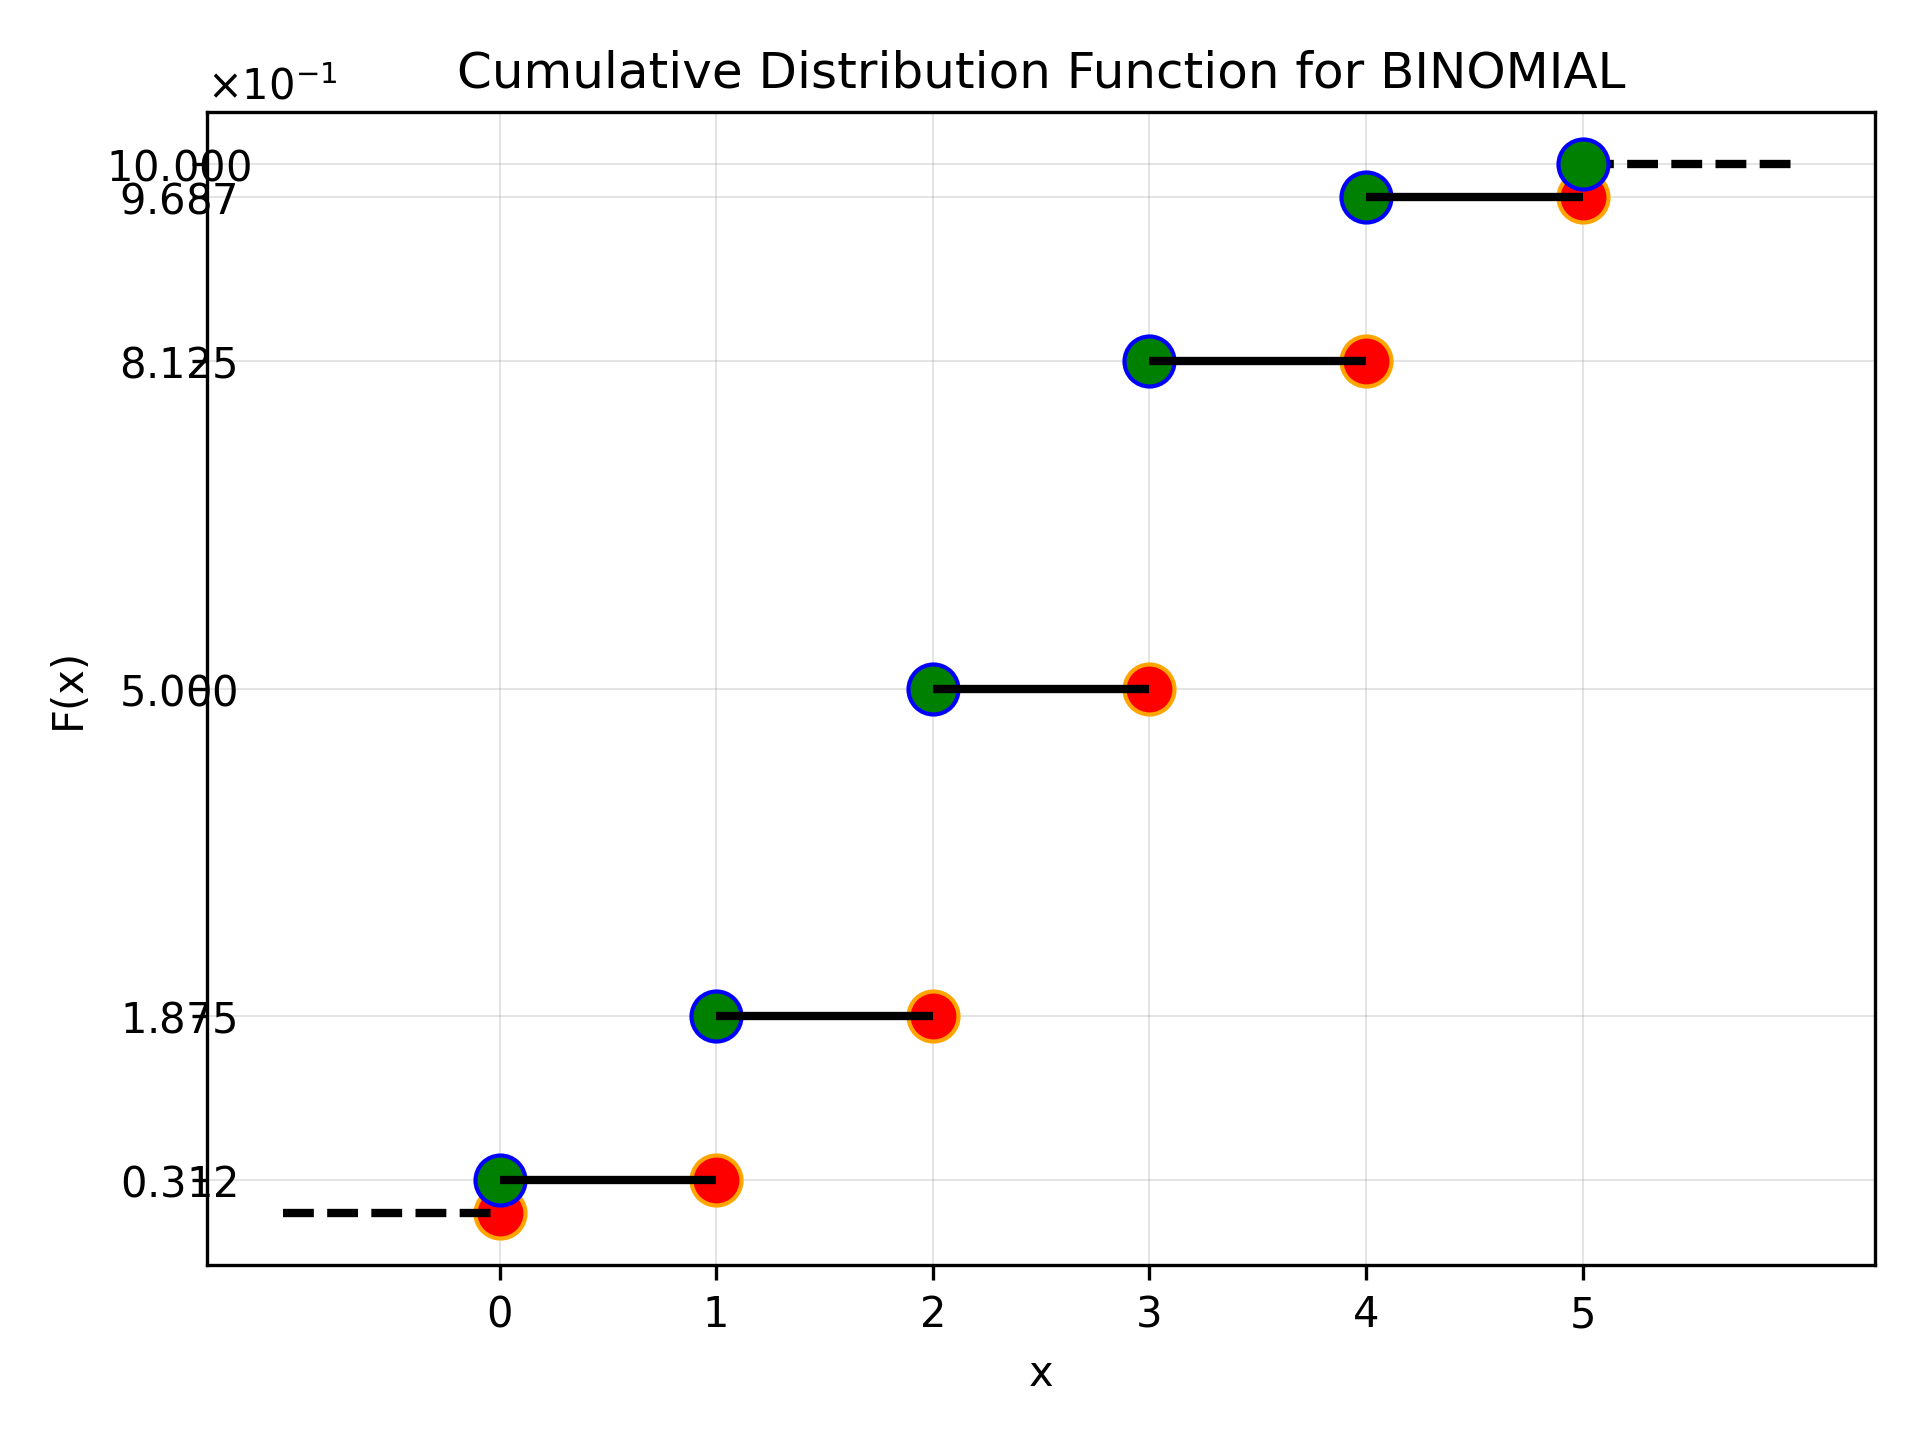
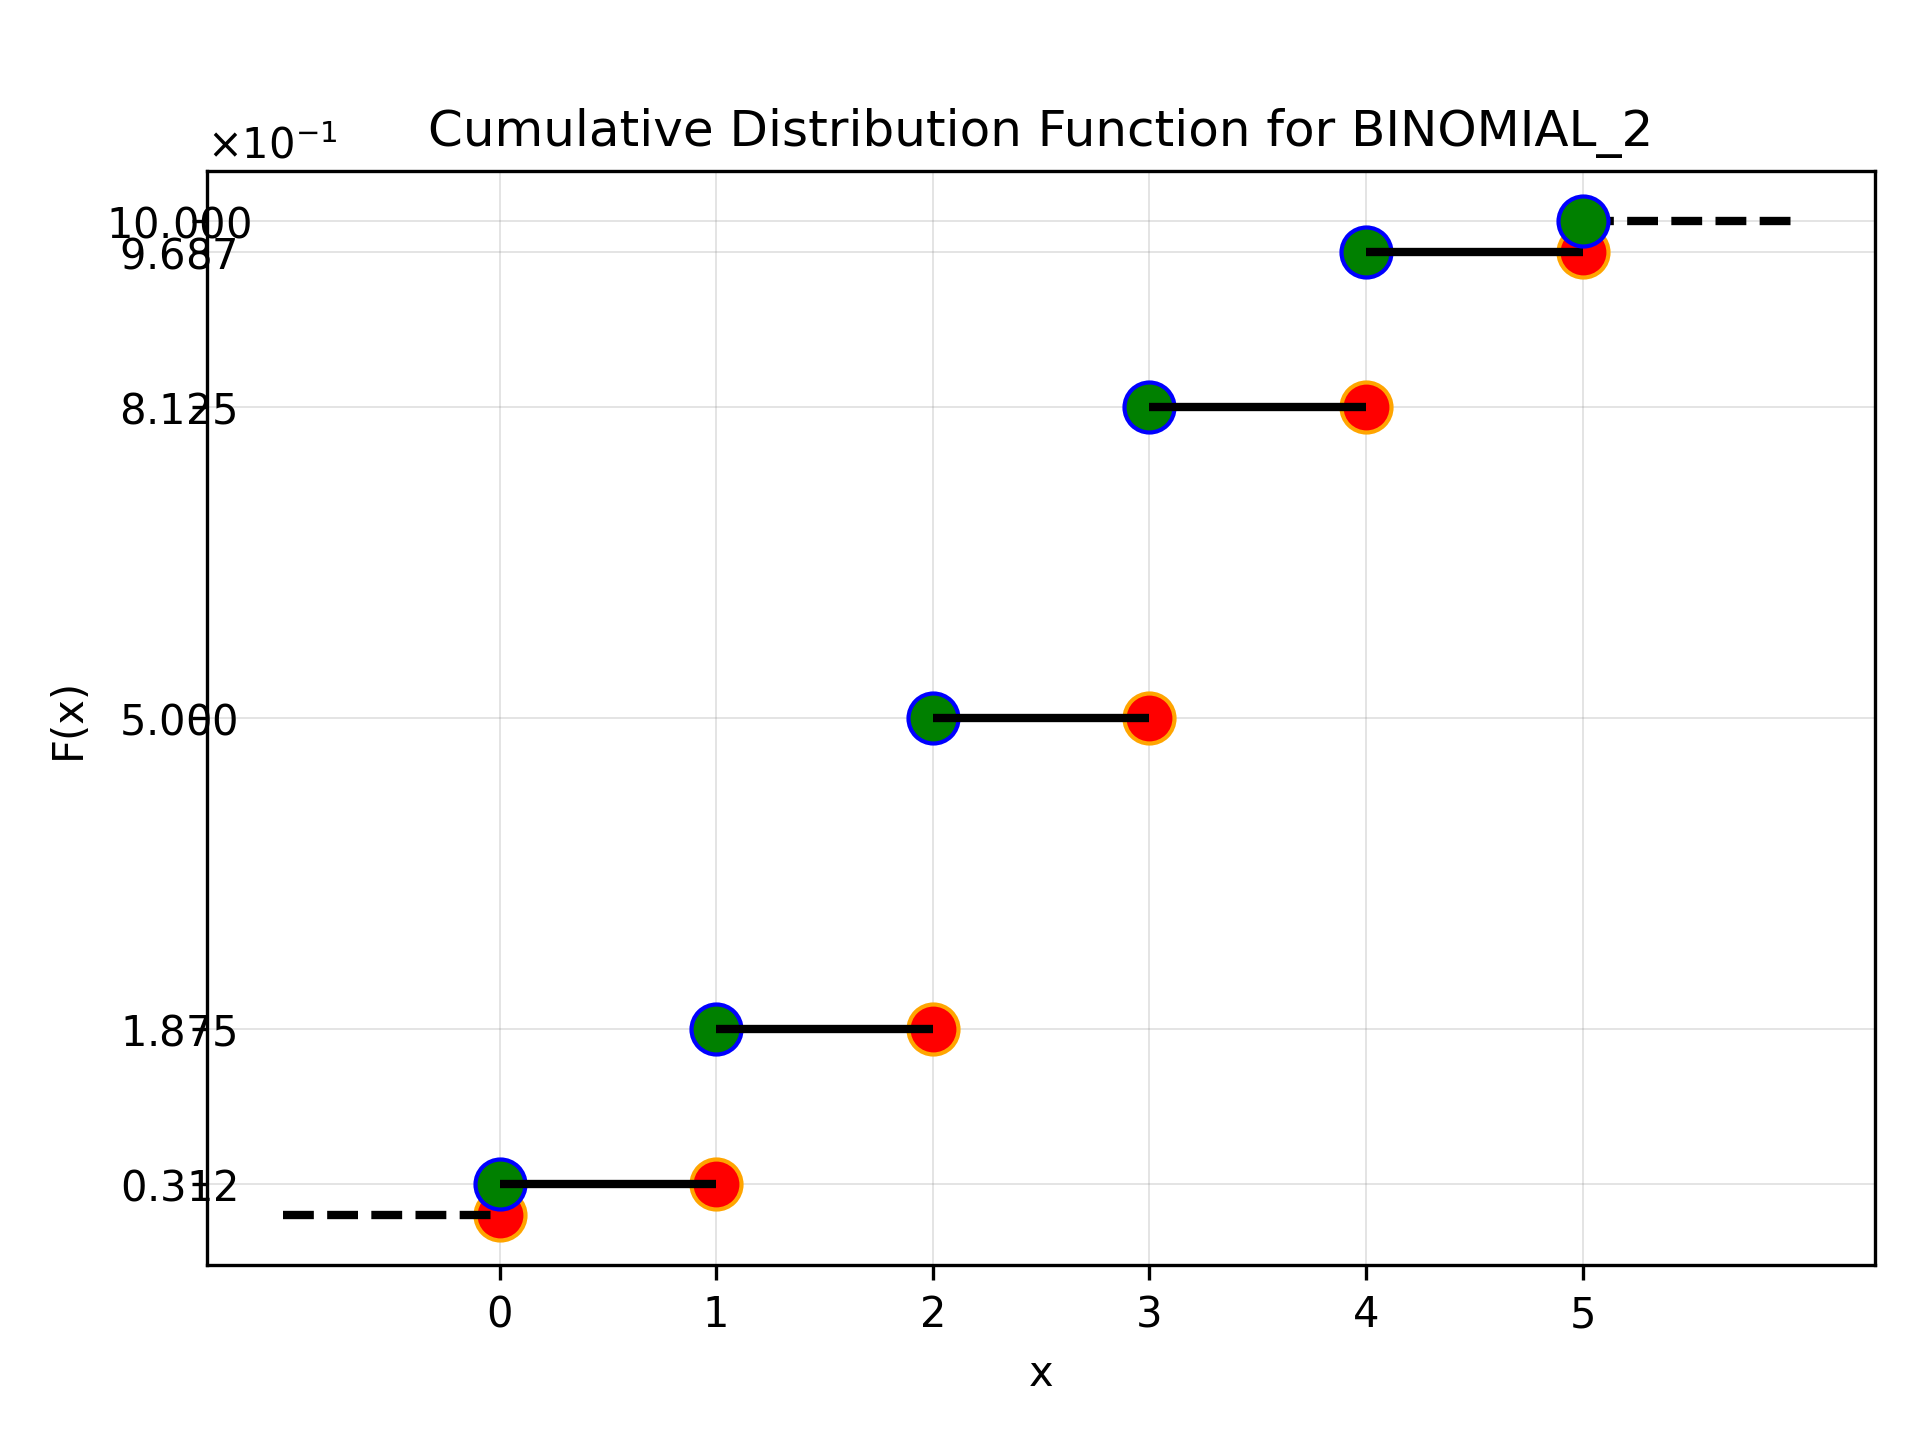
small changes

diff --git a/examples/binomial_2.py b/examples/binomial_2.py
@@ -37,7 +37,7 @@ def _show_if_interactive() -> None:
 
 def main() -> None:
 	output_folder = _build_output_folder()
-	rv_name = "binomial"
+	rv_name = "binomial_2"
 
 	n = 5
 	p = 0.5
@@ -73,10 +73,10 @@ def main() -> None:
 		label.set_ha("center")
 	# Adjust layout to prevent label cutoff
 	fig_cdf.tight_layout()
-	fig_cdf.savefig(os.path.join(output_folder, f"{rv_name}_2_cdf.png"), dpi=300)
+	fig_cdf.savefig(os.path.join(output_folder, f"{rv_name}_cdf.png"), dpi=300)
 
 	fig_pmf, _ = binomial_from_pmf.plot_pmf(rv_name=rv_name, save=False)
-	fig_pmf.savefig(os.path.join(output_folder, f"{rv_name}_2_pmf.png"), dpi=300)
+	fig_pmf.savefig(os.path.join(output_folder, f"{rv_name}_pmf.png"), dpi=300)
 
 	fig_qt, _ = binomial.plot_quantile(rv_name=rv_name, save=False)
 
@@ -92,7 +92,7 @@ def main() -> None:
 
 	# Adjust layout to prevent label cutoff
 	fig_qt.tight_layout()
-	fig_qt.savefig(os.path.join(output_folder, f"{rv_name}_2_quantile.png"), dpi=300)
+	fig_qt.savefig(os.path.join(output_folder, f"{rv_name}_quantile.png"), dpi=300)
 	
 	_show_if_interactive()
 
